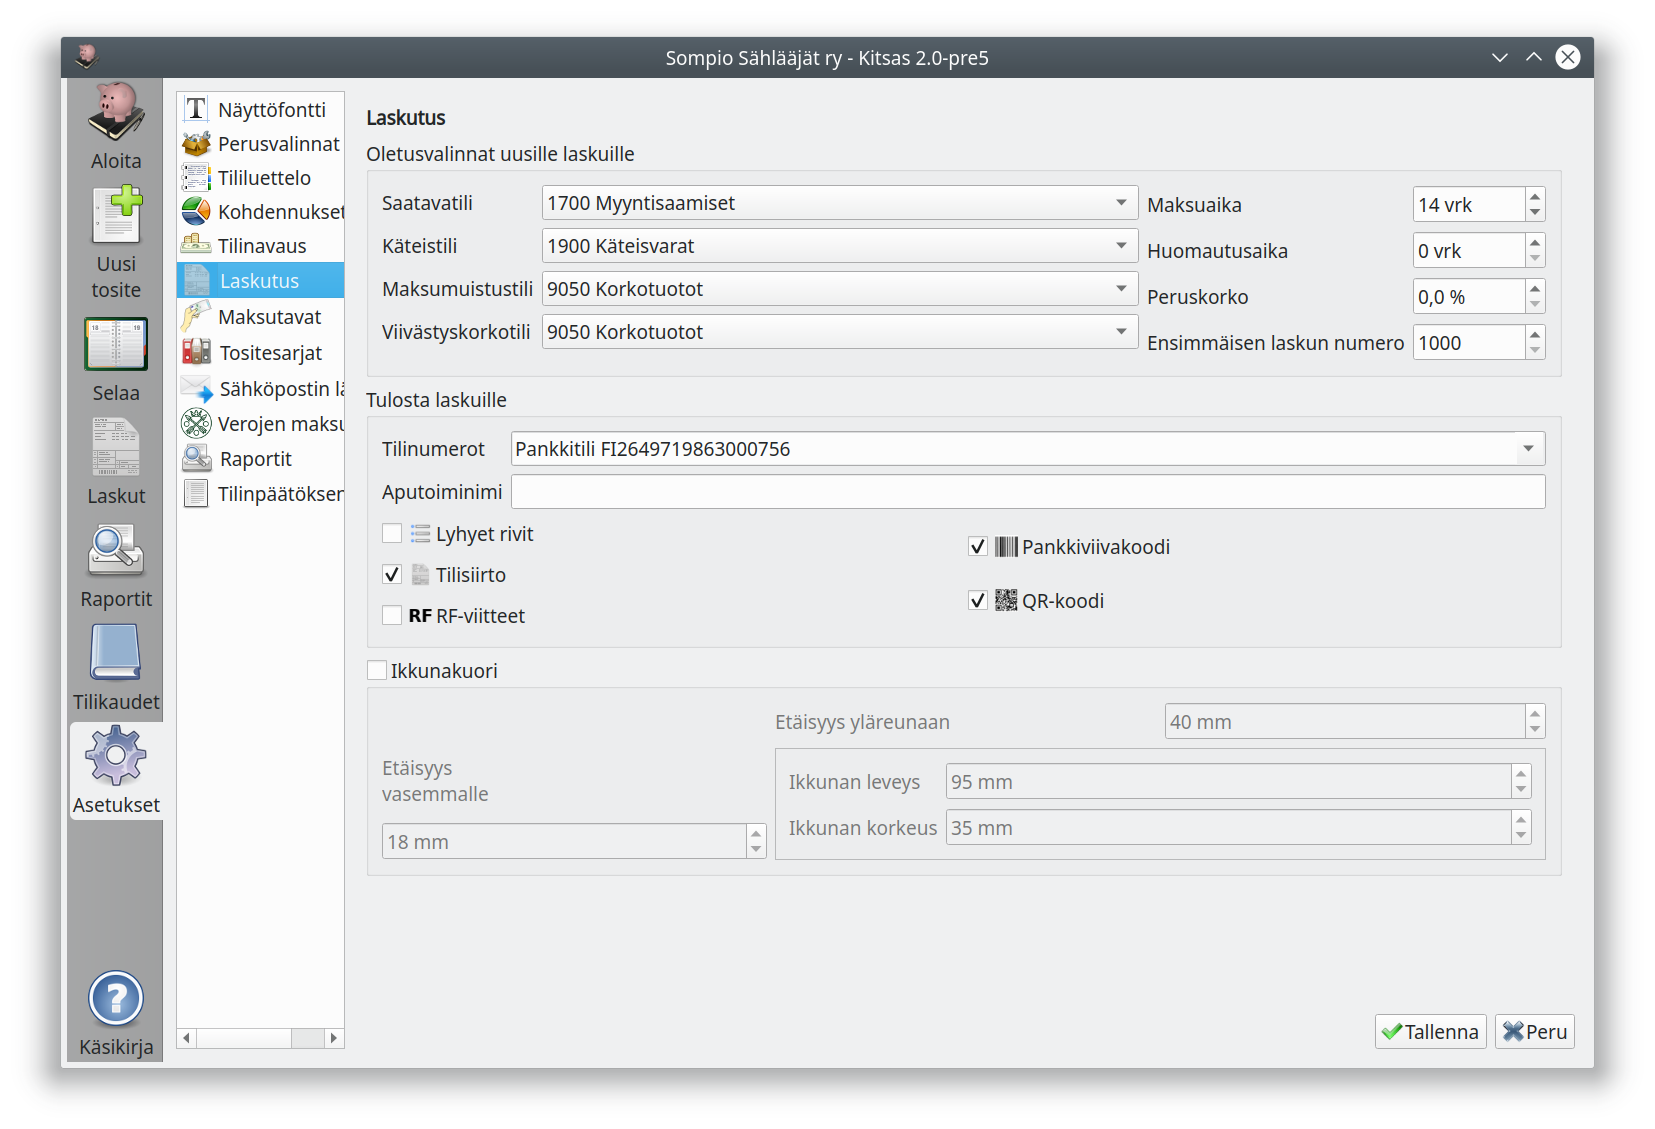
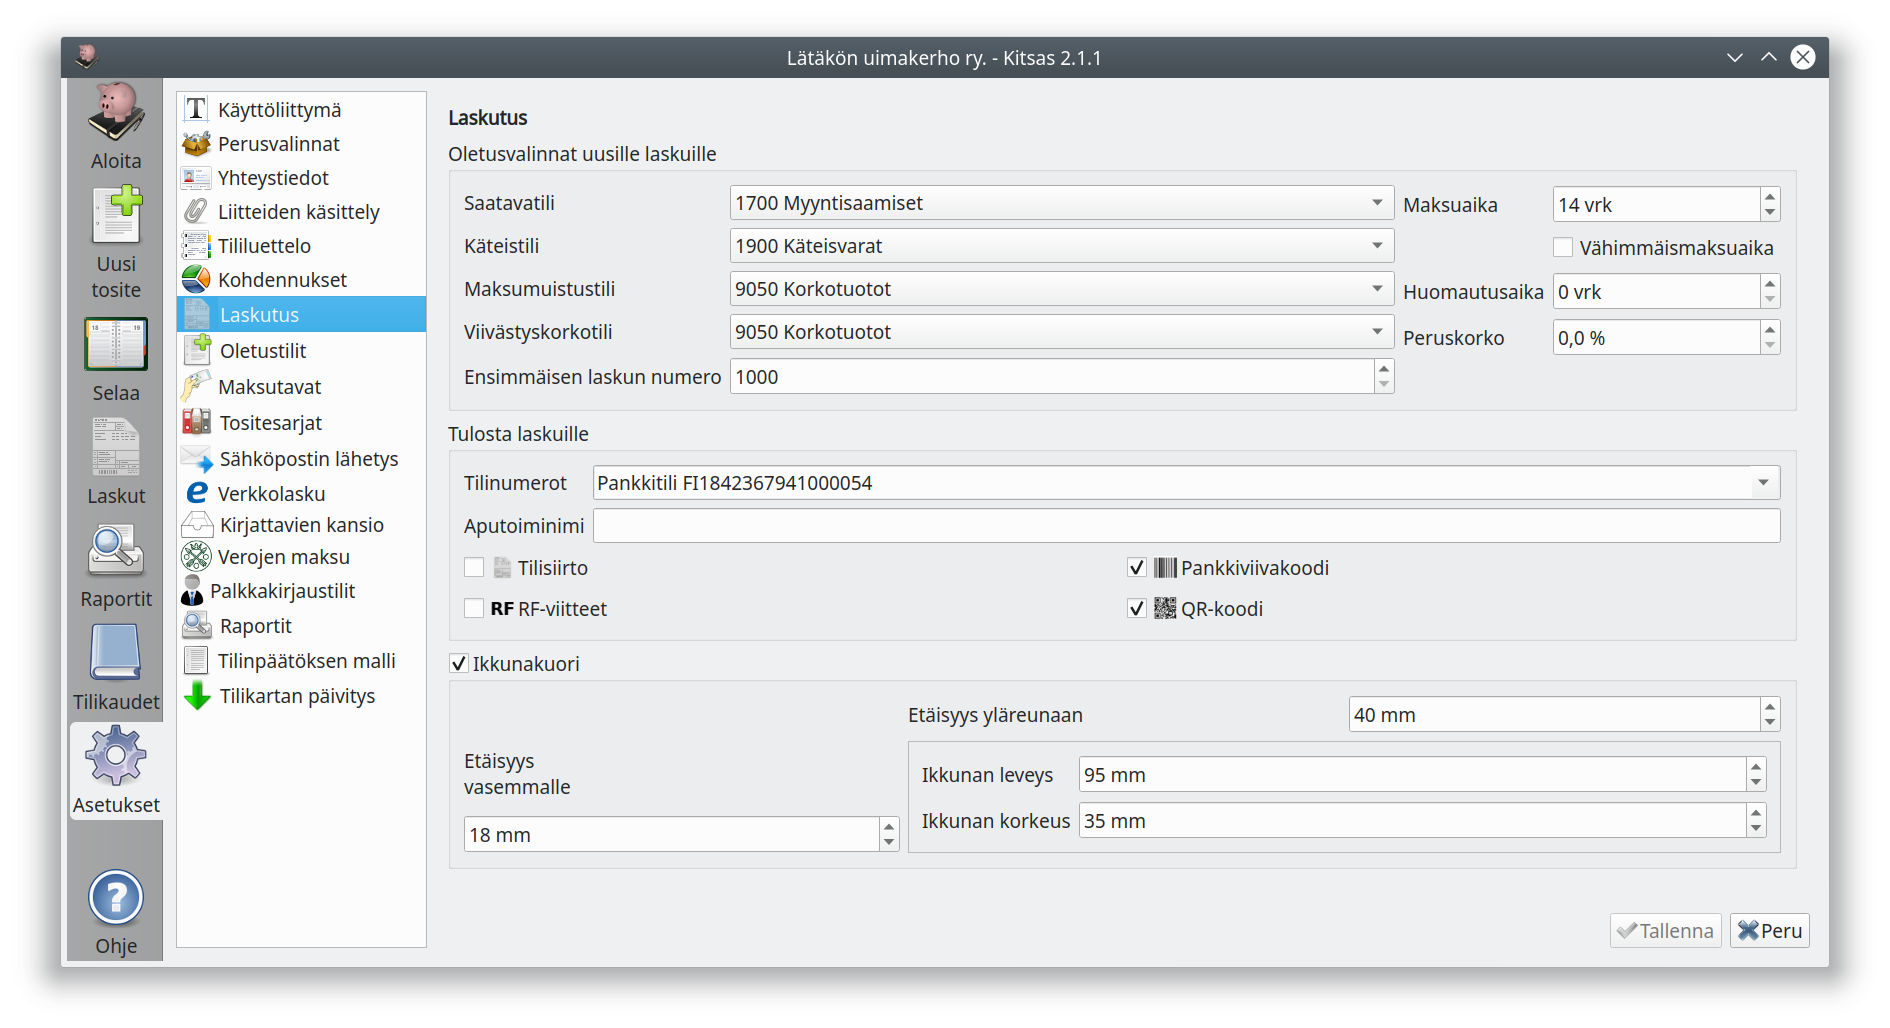
Deployed 5d2027f with MkDocs version: 0.17.5

diff --git a/maaritykset/verkkolasku/index.html b/maaritykset/verkkolasku/index.html
@@ -1490,11 +1490,10 @@
 </div>
 <p>Sekä laskujen lähettäminen että vastaanottaminen onnistuu vain, jos olet kirjautuneena Kitsaaseen käyttäjätunnuksillasi</p>
 <p>Kun laskutuksessa lähetät verkkolaskun, lähetetään se välittömästi Maventan kautta eteenpäin.</p>
-<p>Kitsas ei ilmoita verkkolaskun toimittamisen epäonnistumisesta. Siksi Manventan asetusten kohdasta <strong>laskuilmoitukset</strong> on syytä ottaa käyttöön <strong>Vastaanota ilmoituksia laskujen lähetysvirheistä</strong></p>
 <h3 id="verkkolaskujen-vastaanottaminen">Verkkolaskujen vastaanottaminen<a class="headerlink" href="#verkkolaskujen-vastaanottaminen" title="Permanent link">&para;</a></h3>
 <p>Verkkolaskujen noutaminen otetaan käyttöön <strong>Nouda saapuneet laskut</strong>-valinnalla.</p>
 <p>Omalle koneelle tallennetuissa kirjanpidoissa saapuneet laskut haetaan ohjelman käynnistyessä. Voit hakea laskut myös verkkolaskuasetusten <strong>Nouda nyt</strong>-painikkeella. Laskut löytyvät <strong>Selaa</strong>-sivun <strong>Saapuneet</strong>-välilehdeltä. Noudetut laskut eivät näy kirjanpidossa ennen kuin ne tallennetaan <strong>Valmis</strong>-painikkeella</p>
-<p>Pilveen tallennetuissa kirjanpidoissa saapuneet laskut noudetaan neljä kertaa vuorokaudessa <strong>Saapuneet verkkolaskut</strong>-kiertoon. Voit hakea laskut myös verkkolaskuasetusten <strong>Nouda nyt</strong>-painikkeella.</p>
+<p>Pilveen tallennetussa kirjanpidossa saapuneet laskut saapuvat kirjanpitoon automaattisesti. Laskuluettelossa näet kuvakkeen muuttumisesta myös sen, kun lasku on lähetetty tai kun laskun toimittaminen on epäonnistunut.</p>
 <p>Kitsaassa ei toistaiseksi ole suoraa pankkiyhteyttä, vaan sinun on huolehdittava saapuneiden laskujen maksusta esimerkiksi verkkopankkia käyttäen.</p>
 <h3 id="laskujen-postituspalvelu">Laskujen postituspalvelu<a class="headerlink" href="#laskujen-postituspalvelu" title="Permanent link">&para;</a></h3>
 <p>Kun <strong>Paperilaskujen postitus Maventan kautta</strong> on valittuna, toimitetaan laskuja lähetettäessä ne laskut, joiden toimitustapana on <strong>Postitus</strong>, Maventan tulostuspalveluun. Maventa veloittaa laskujen tulostamisesta oman hinnastonsa mukaan.</p>

diff --git a/maaritykset/laskutus/index.html b/maaritykset/laskutus/index.html
@@ -1396,7 +1396,7 @@
 <li><strong>Käteistili</strong>: tili, jos maksu kirjataan käteislaskuna (yleensä Käteisvarat)</li>
 <li><strong>Maksumuistutustili</strong>: tili, jolle kirjataan maksumuistutusten muistutusmaksut</li>
 <li><strong>Viivästyskorkotili</strong>: tili, jolle kirjataan maksumuistutusten viivästyskorot</li>
-<li><strong>Maksuaika</strong> eräpäivän määrittelemiseen</li>
+<li><strong>Maksuaika</strong> eräpäivän määrittelemiseen. <strong>Vähimmäismaksuaika</strong> tarkoittaa, että kun lasku lähetetään, varmistetaan että laskulla on vähintään määritelty maksuaika (eli käyttäjä ei voi määritellä maksuaikaa tätä lyhyemmäksi). Viikonloppuun tai kiinteälle pyhäpäivälle (uudenvuodenpäivä, loppiainen, vapunpäivä, itsenäisyyspäivä, jouluaatto, joulupäivä ja tapaninpäivä) osuva eräpäivä siirretään seuraavalle päivälle.</li>
 <li>Laskulle tulostettava <strong>huomautusaika</strong></li>
 <li><strong>Peruskorko</strong>, jonka perusteella viivästyskorko määritellään. <a href="https://www.suomenpankki.fi/fi/Tilastot/korot/kuviot/korot_kuviot/viitekorko_chrt_fi/">Suomen Pankki</a> julkaisee koron puolen vuoden jaksoille.</li>
 <li><strong>Ensimmäisen laskun numero</strong> on numero, josta laskujen numerointi aloitetaan</li>

diff --git a/tilikaudet/index.html b/tilikaudet/index.html
@@ -1438,6 +1438,10 @@
 </div>
 <h2 id="kirjanpitoaineisto">Kirjanpitoaineisto<a class="headerlink" href="#kirjanpitoaineisto" title="Permanent link">&para;</a></h2>
 <p><strong>Aineisto</strong>-painikkeella muodostat kirjanpidostasi pdf-tiedoston, joka sisältää koko tilikauden koko kirjanpidon ja kaikki sähköisessä muodossa olevat tositteet (mutta ei tilinpäätöstä).</p>
+<div class="admonition warning">
+<p class="admonition-title">Aineistoa ei voi muodostaa suuresta kirjanpidosta</p>
+<p>Kirjanpidosta, jossa on kovin isokokoisia sähköisiä tositteita tai kovin suuri määrä tositteita, ei välttämättä voi muodostaa aineistoa. Voit kuitenkin muodostaa kirjanpidosta <a href="./arkisto/">sähköisen arkiston</a></p>
+</div>
                 
                   
                 
